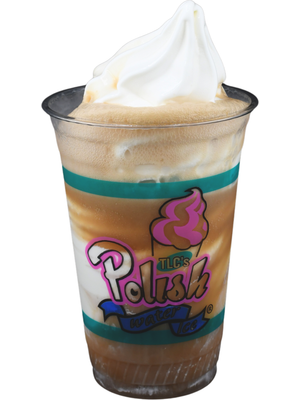
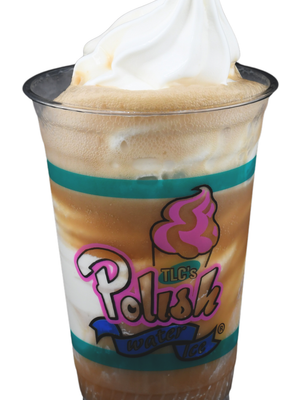
Scale all product images to match reference tile visual size
Reprocessed slushie, milkshake, ice cream, and float images
from originals with adjusted scale factors so all products
appear the same visual size as the reference tiles (Polish
Water Ice, Ice Cap, Polish Freeze). Removed inline height
styles from ice cream tile.

diff --git a/index.html b/index.html
@@ -68,8 +68,8 @@
       </div>
       <div class="flavor-card flavor-card--featured" style="--accent: #ff922b;">
         <div class="flavor-images">
-          <img src="images/ice-cream-swirl.png" alt="Vanilla Chocolate Swirl Ice Cream Cone" style="height: 110px;">
-          <img src="images/ice-cream-cup.png" alt="Ice Cream Cup Swirl" style="height: 140px;">
+          <img src="images/ice-cream-swirl.png" alt="Vanilla Chocolate Swirl Ice Cream Cone">
+          <img src="images/ice-cream-cup.png" alt="Ice Cream Cup Swirl">
         </div>
         <h3>Ice Cream</h3>
         <p>Cone or cup &mdash; chocolate, vanilla, or mix</p>
